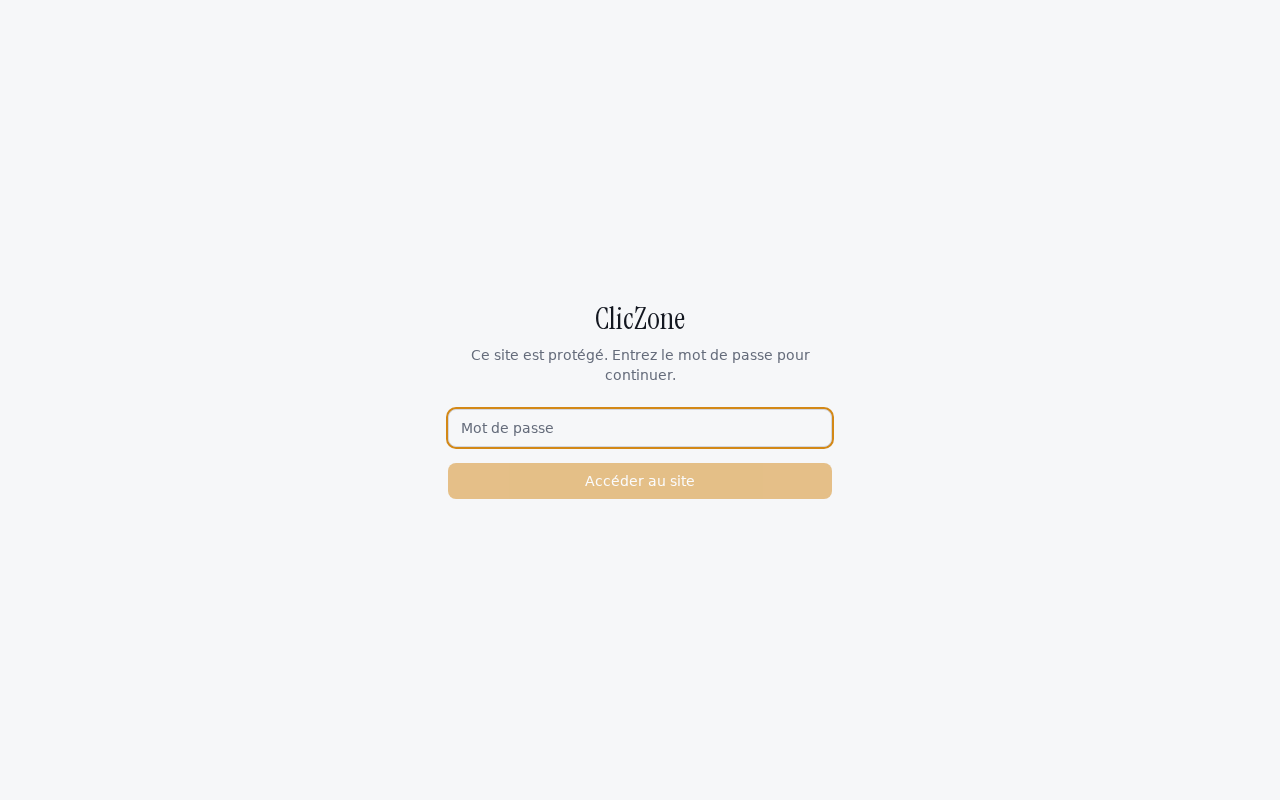
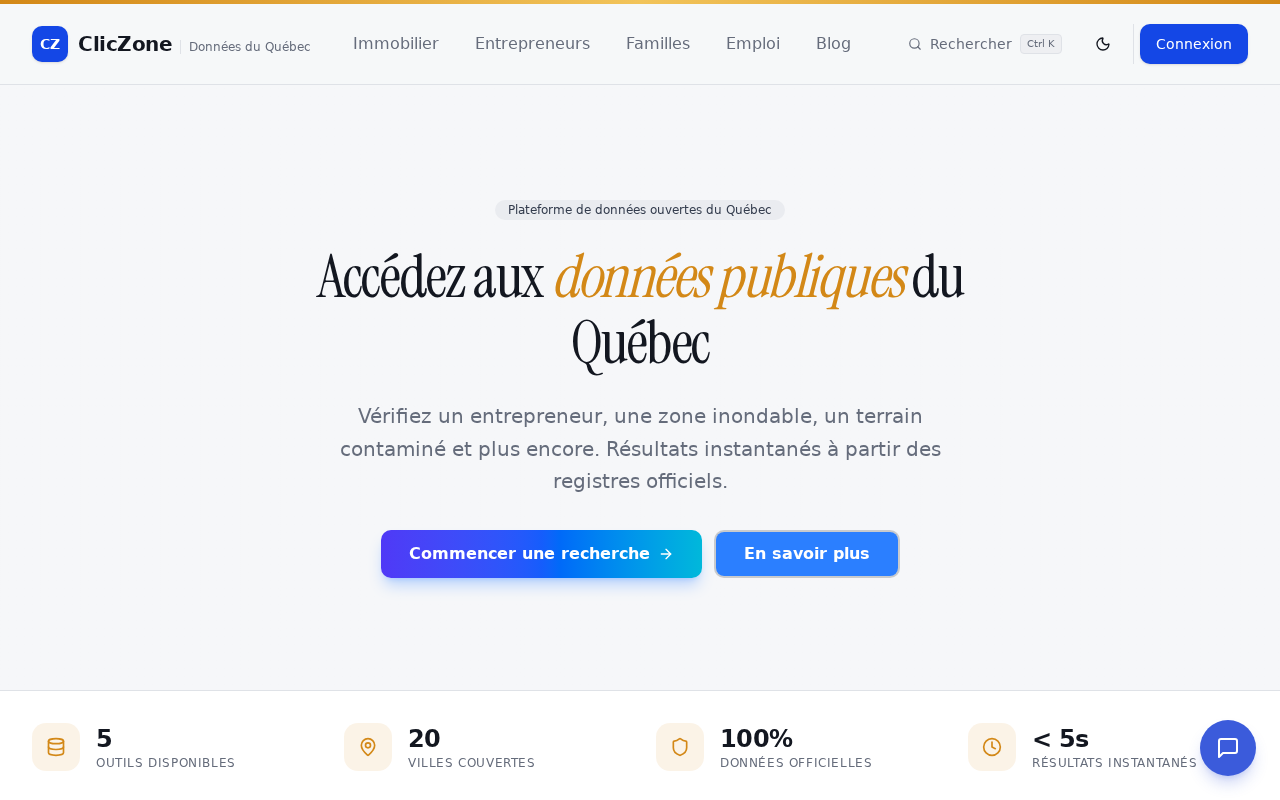
docs: add 5 screenshots of main pages

diff --git a/README.md b/README.md
@@ -100,7 +100,20 @@ Les données publiques du Québec (RBQ, MELCCFP, ministères) sont éparpillées
 
 ## Screenshots
 
+### Page d'accueil
 ![Page d'accueil](https://raw.githubusercontent.com/Maaattqc/cliczone/main/docs/screenshot-home.png)
+
+### Vérifier un entrepreneur RBQ
+![Vérifier entrepreneur](https://raw.githubusercontent.com/Maaattqc/cliczone/main/docs/screenshot-entrepreneur.png)
+
+### Zone inondable
+![Zone inondable](https://raw.githubusercontent.com/Maaattqc/cliczone/main/docs/screenshot-flood.png)
+
+### Terrain contaminé
+![Terrain contaminé](https://raw.githubusercontent.com/Maaattqc/cliczone/main/docs/screenshot-terrain.png)
+
+### Blog
+![Blog](https://raw.githubusercontent.com/Maaattqc/cliczone/main/docs/screenshot-blog.png)
 
 ## 🤖 Développement assisté par IA
 
